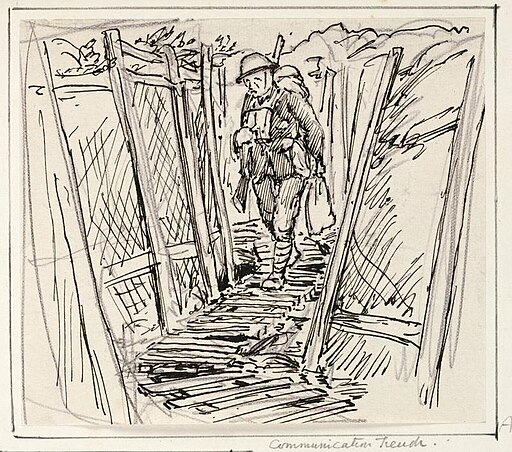
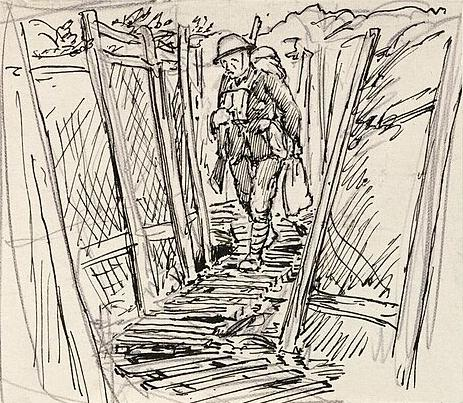
expand description, crop image

diff --git a/backend/corpora/gallica/description/tranchees.md b/backend/corpora/gallica/description/tranchees.md
@@ -1,5 +1,11 @@
-This corpus contains journals spread in the trenches of the French military during World War 1.
+This corpus contains journals spread in the trenches of the French military during World War 1. These journals were written and disseminated by soldiers for their comrades.
 
-The various sources were digitised and made publicly available by [Gallica](https://gallica.bnf.fr/selections/fr/html/presse-et-revues/journaux-de-tranchees)
+Many of these journals only published a few issues; others continued after the war, such as *Crapouillot* and *Canard enchaîné*. Some journals were printed, while others were copied using makeshift methods. Printed journals would end up in the legal deposit, but public knowledge of these makeshift, "ephemeral" journals could be incomplete, as it dependended on donations.
 
-Note that only those journals which were findable through the overview of the collection "Journaux de Tranchees" on Gallica were added, and only if they had plain text available.
+The various journals were digitised and made publicly available by [Gallica](https://gallica.bng.fr); these journals are part of Gallica's [Journaux de tranchées collection](https://gallica.bnf.fr/selections/fr/html/journaux-de-tranchees).
+
+Only journals which were findable through the overview of the collection "Journaux de Tranchees" on Gallica were added, and only if they had plain text available.
+
+## Corpus image
+
+First World War Sketchbook Volume 1 - Communication Trench: a view along a trench with a soldier (1915). Source: [Wikimedia Commons](https://commons.wikimedia.org/wiki/File:First_World_War_Sketchbook_Volume_1_-_Communication_Trench_Art.IWMART16707A26a.jpg)
